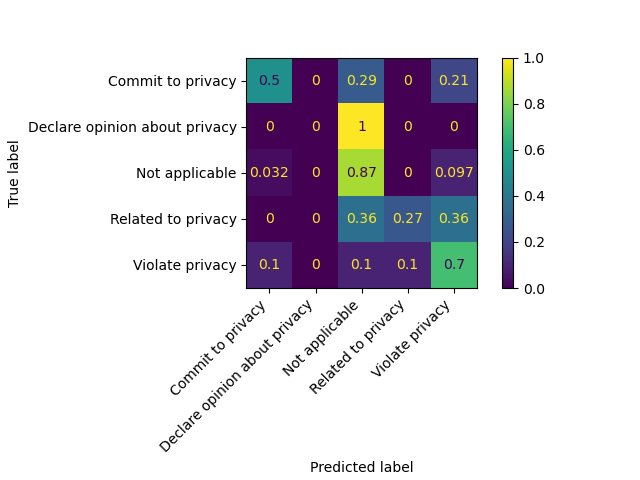
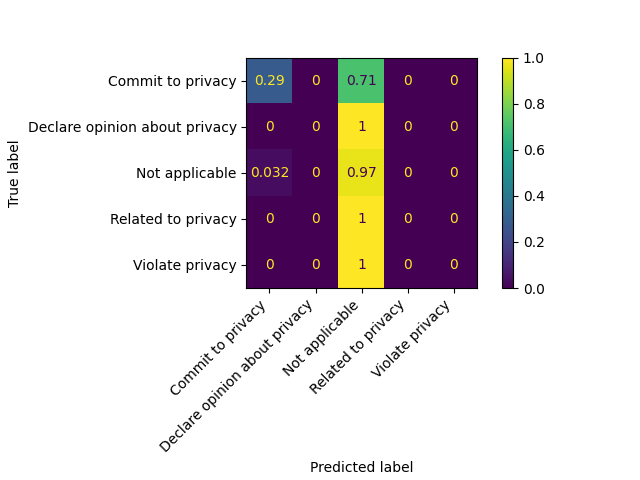
removed some comments and rerun bigrams again

diff --git a/AIclassifier.py b/AIclassifier.py
@@ -294,8 +294,8 @@ for feature in features:
    print('Feature:',feature[1],'Score:',feature[0])
 
 # Predicting
-predictions = model.predict(dev_matrix_array)
-#predictions = model.predict(test_matrix_array)
+#predictions = model.predict(dev_matrix_array)
+predictions = model.predict(test_matrix_array)
 #predictions = model.predict(dev_word_embedding_features)
 #predictions = model.predict(test_word_embedding_features)
 
@@ -305,29 +305,29 @@ predictions = model.predict(dev_matrix_array)
 print("Predictions:\n", predictions)
 
 # Confusion matrix
-#test_list = test_labels_primary.tolist()
-dev_list = dev_labels_primary.tolist()
+test_list = test_labels_primary.tolist()
+#dev_list = dev_labels_primary.tolist()
 pred_list = [pred for pred in predictions]
 labels=[1,3,5,4,2]
-path='output/AI Classifier/dev_1Label_confusion_matrix_NormTrue.png'
+path='output/AI Classifier/1Label_confusion_matrix_NormTrue.png'
 display_labels=['Commit to privacy', 'Declare opinion about privacy','Not applicable','Related to privacy','Violate privacy']
 # NORMALIZED CONFUSION MATRIX
-create_confusion_matrix(dev_list, pred_list, "true", path, labels, display_labels)
-#create_confusion_matrix(test_list, pred_list, "true", path, labels, display_labels)
+#create_confusion_matrix(dev_list, pred_list, "true", path, labels, display_labels)
+create_confusion_matrix(test_list, pred_list, "true", path, labels, display_labels)
 # NON NORMALIZED CONFUSION MATRIX
-path='output/AI Classifier/dev_1Label_confusion_matrix_NonNorm.png'
-create_confusion_matrix(dev_list, pred_list, None, path, labels, display_labels)
-#create_confusion_matrix(test_list, pred_list, None, path, labels, display_labels)
+path='output/AI Classifier/1Label_confusion_matrix_NonNorm.png'
+#create_confusion_matrix(dev_list, pred_list, None, path, labels, display_labels)
+create_confusion_matrix(test_list, pred_list, None, path, labels, display_labels)
 
 # FLAG - CHECK IF CONFUSION MATRIX IS CORRECT FOR EVERY LABEL
-path='output/AI Classifier/1labelPredictionsStatsDev.txt'
-#path='output/AI Classifier/1labelPredictionsStatsTest.txt'
+#path='output/AI Classifier/1labelPredictionsStatsDev.txt'
+path='output/AI Classifier/1labelPredictionsStatsTest.txt'
 os.makedirs(os.path.dirname(path), exist_ok=True)
 with open(path, 'w') as file:
     #print("Performance measures - Unigram Dictionary - MLP Word Embeddings\n", file=file)
     print("Performance measures - Unigram Dictionary - Adaboost\n", file=file)
-write_output_stats_file(path, "Dev", dev_labels_primary, predictions, labels)
-#write_output_stats_file(path, "Test", test_labels_primary, predictions, labels)
+#write_output_stats_file(path, "Dev", dev_labels_primary, predictions, labels)
+write_output_stats_file(path, "Test", test_labels_primary, predictions, labels)
 
 # TO DO: WRITE PREDICTIONS JSON FILE -> LEARN HOW TO TRANSFORM ADABOOST OUTPUT IN DICT ( LIST OF ({"text":sentence['text'], "label":label}))
 #write_predictions_file("Dev", dev_pred_dict)
